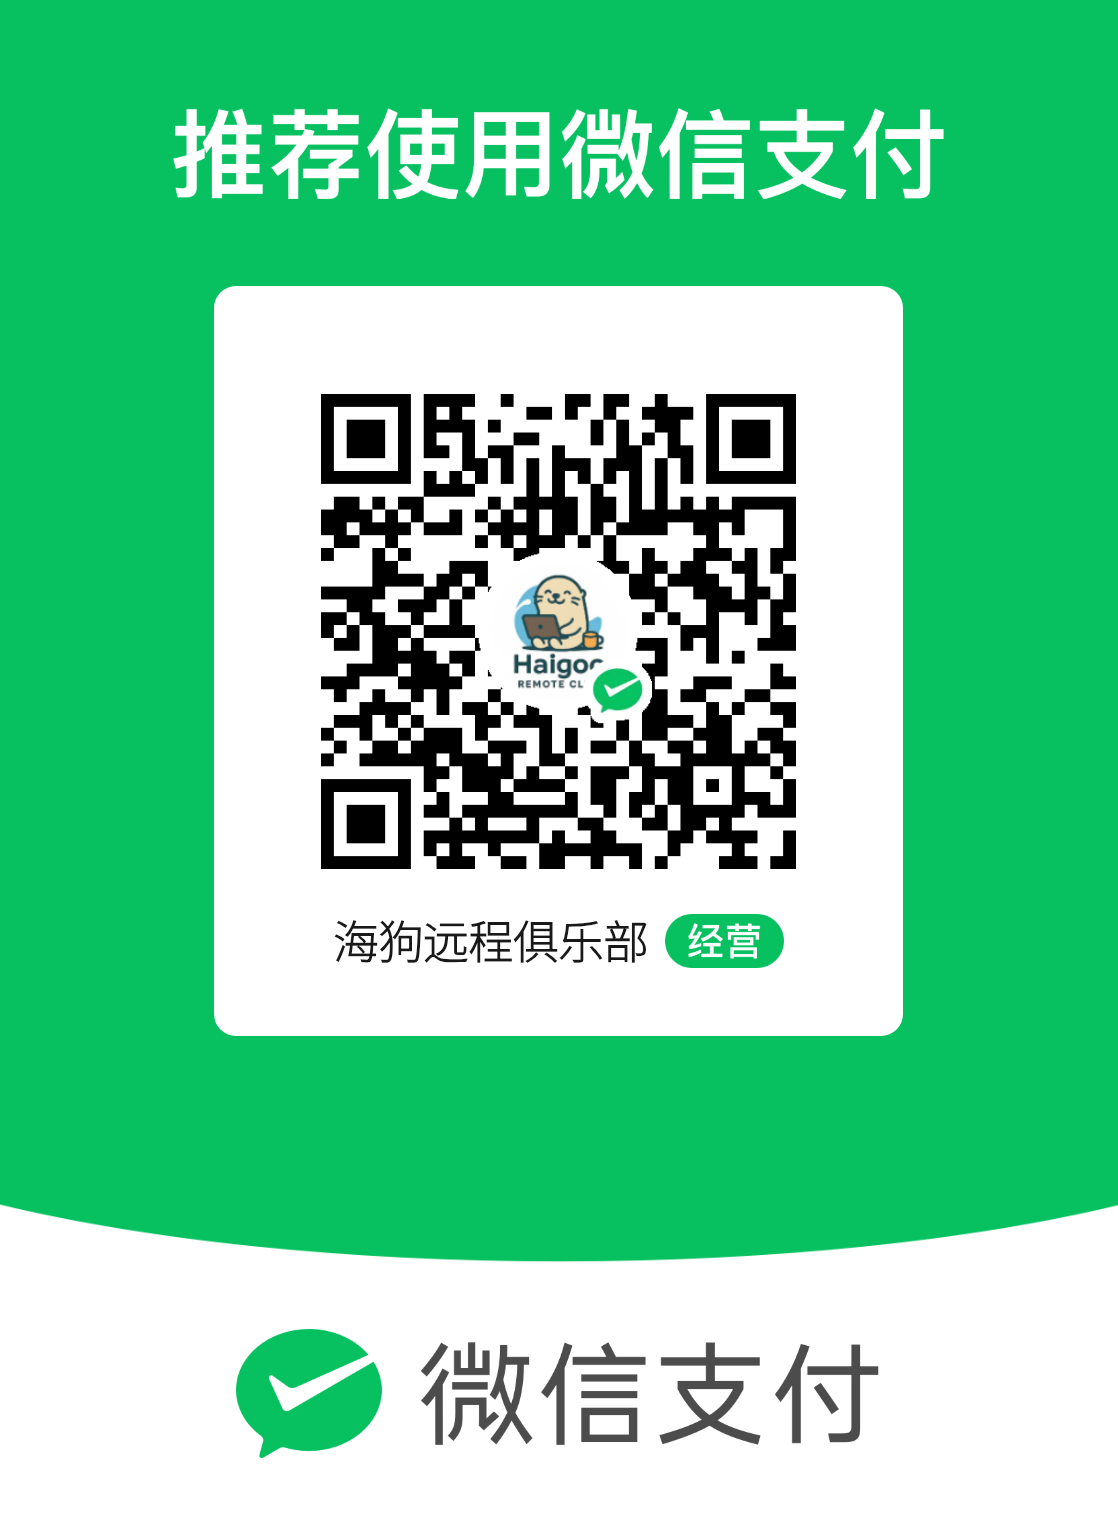
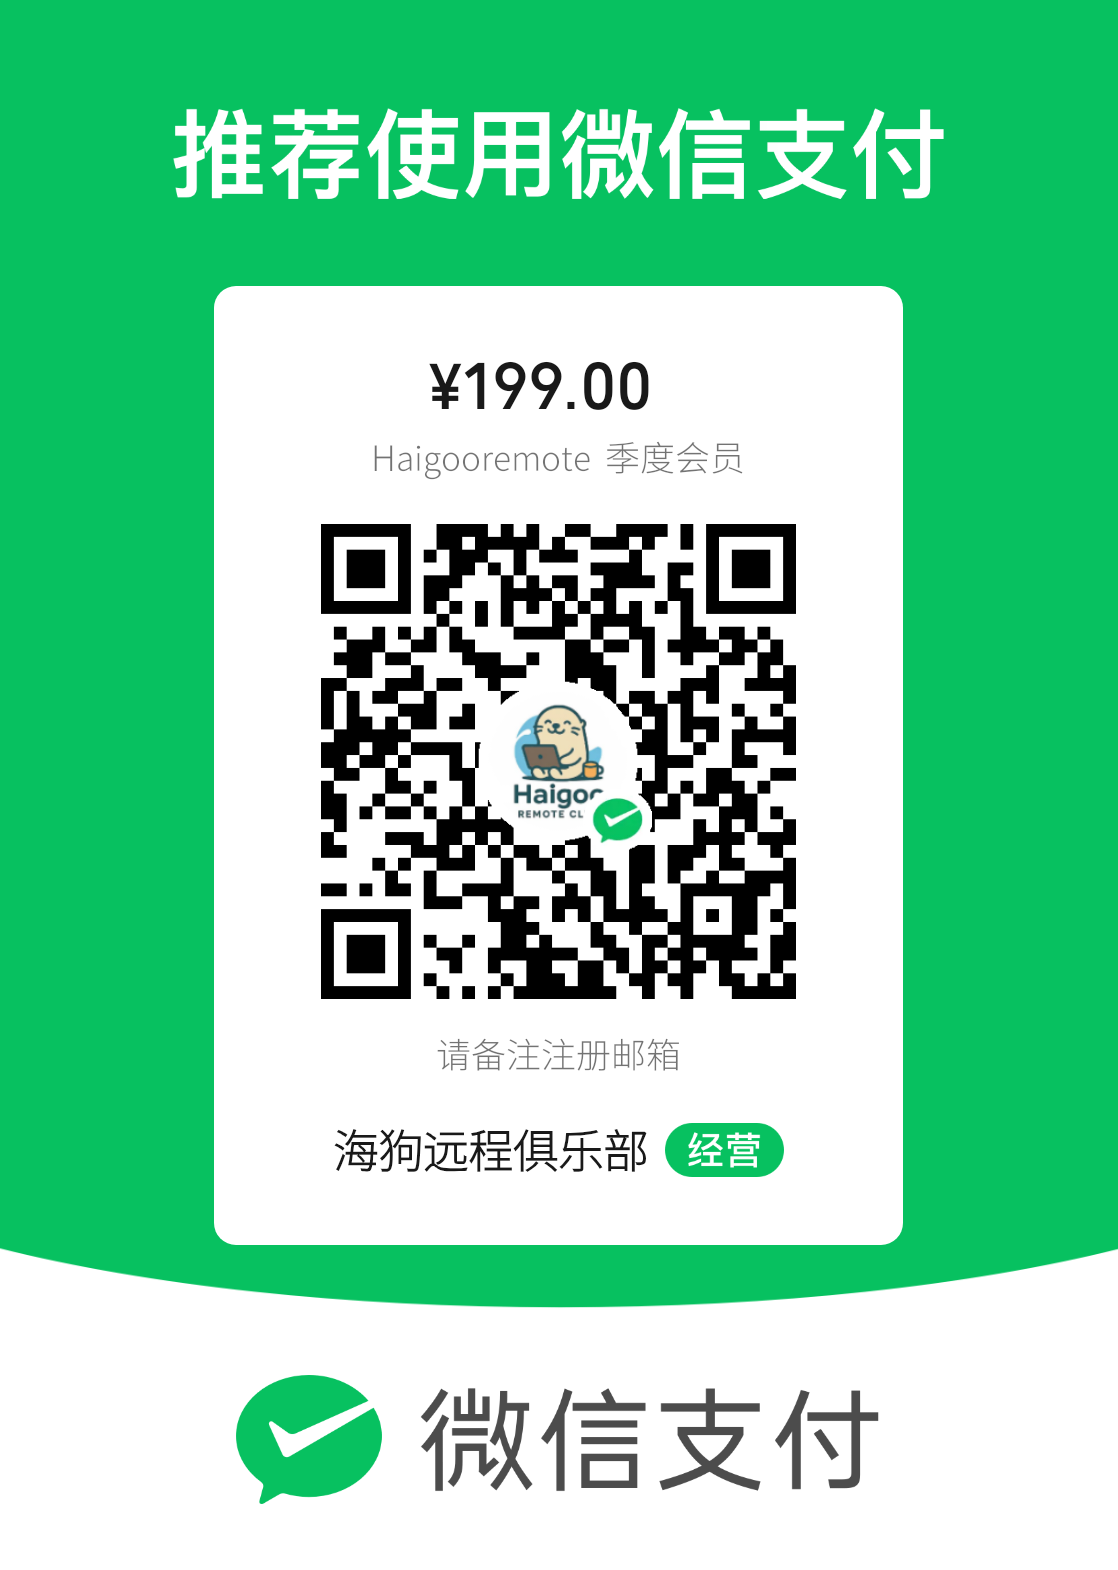
feat: Optimize payment modal UI and update payment QR codes

diff --git a/src/pages/MembershipPage.tsx b/src/pages/MembershipPage.tsx
@@ -125,7 +125,7 @@ const MembershipPage: React.FC = () => {
          return;
       }
       setSelectedPlan(plan);
-      setPaymentInfo(null); // Reset previous payment info
+      setPaymentMethod('alipay'); // Reset default
       setShowPaymentModal(true);
       trackingService.track('click_subscribe', {
           plan_id: plan.id,
@@ -134,26 +134,11 @@ const MembershipPage: React.FC = () => {
       });
    };
 
-   const handleCreatePayment = () => {
-      if (!selectedPlan) return;
-      if (!user?.email) {
-          alert('请先完善您的邮箱信息');
-          return;
-      }
-
-      // Manual Payment Flow - Display QR Code directly
-      const info: PaymentInfo = {
-          type: 'qrcode',
-          imageUrl: paymentMethod === 'alipay' ? '/alipay.jpg' : '/wechatpay.png',
-          instruction: `请使用${paymentMethod === 'alipay' ? '支付宝' : '微信'}扫码支付`
-      };
-      
-      setPaymentInfo(info);
-      trackingService.track('initiate_payment_manual', {
-          plan_id: selectedPlan.id,
-          payment_method: paymentMethod,
-          amount: selectedPlan.price
-      });
+   // Simplified flow: Payment info is derived directly from state
+   const currentPaymentInfo: PaymentInfo = {
+      type: 'qrcode',
+      imageUrl: paymentMethod === 'alipay' ? '/alipay.jpg' : '/wechatpay.png',
+      instruction: `请使用${paymentMethod === 'alipay' ? '支付宝' : '微信'}扫码支付`
    };
 
    const handlePaymentComplete = async () => {
@@ -173,7 +158,7 @@ const MembershipPage: React.FC = () => {
       }
 
       setShowPaymentModal(false);
-      alert('感谢您的支付！请务必确保您在支付备注中留下了邮箱。管理员将在24小时内为您开通权益。');
+      alert('感谢您的支付！权益将在24小时内开通。如有疑问请联系 hi@haigooremote.com');
       fetchStatus(); // Refresh status
       trackingService.track('complete_payment_client_claim', {
           plan_id: selectedPlan?.id
@@ -493,131 +478,128 @@ const MembershipPage: React.FC = () => {
             <div className="fixed inset-0 z-50 flex items-center justify-center p-4">
                <div className="absolute inset-0 bg-slate-900/60 backdrop-blur-sm transition-opacity" onClick={() => setShowPaymentModal(false)}></div>
 
-               <div className="relative bg-white rounded-2xl shadow-2xl w-full max-w-lg overflow-hidden animate-in fade-in zoom-in duration-300 scale-100">
-                  {/* Header */}
-                  <div className="px-6 py-5 border-b border-slate-100 flex justify-between items-center bg-slate-50/50">
-                     <h3 className="text-lg font-bold text-slate-900 flex items-center gap-2">
-                        <Zap className="w-5 h-5 text-indigo-500 fill-indigo-500" />
-                        确认订单
-                     </h3>
-                     <button
-                        onClick={() => setShowPaymentModal(false)}
-                        className="w-8 h-8 flex items-center justify-center rounded-full bg-slate-100 text-slate-400 hover:bg-slate-200 hover:text-slate-600 transition-colors"
-                     >
-                        <span className="text-xl leading-none">&times;</span>
-                     </button>
-                  </div>
+               <div className="relative bg-white rounded-2xl shadow-2xl w-full max-w-4xl overflow-hidden animate-in fade-in zoom-in duration-300 scale-100 flex flex-col md:flex-row">
+                  {/* Left Side: Order Details */}
+                  <div className="w-full md:w-2/5 bg-slate-50 border-r border-slate-100 p-6 md:p-8 flex flex-col">
+                      <div className="flex justify-between items-center mb-6 md:hidden">
+                        <h3 className="text-lg font-bold text-slate-900 flex items-center gap-2">
+                            <Zap className="w-5 h-5 text-indigo-500 fill-indigo-500" />
+                            确认订单
+                        </h3>
+                        <button
+                            onClick={() => setShowPaymentModal(false)}
+                            className="w-8 h-8 flex items-center justify-center rounded-full bg-slate-100 text-slate-400 hover:bg-slate-200 hover:text-slate-600 transition-colors"
+                        >
+                            <span className="text-xl leading-none">&times;</span>
+                        </button>
+                      </div>
 
-                  <div className="p-6 md:p-8">
-                     {/* Order Summary Card */}
-                     <div className="flex justify-between items-center mb-8 bg-gradient-to-br from-indigo-50 to-slate-50 p-5 rounded-2xl border border-indigo-100/50">
-                        <div>
-                           <p className="text-xs font-semibold text-indigo-500 uppercase tracking-wide mb-1">订阅方案</p>
-                           <p className="font-bold text-slate-900 text-lg">{selectedPlan.name}</p>
-                        </div>
-                        <div className="text-right">
-                           <p className="text-xs text-slate-500 mb-1">支付金额</p>
-                           <p className="text-3xl font-bold text-indigo-600">¥{selectedPlan.price}</p>
+                     <div className="mb-8">
+                        <p className="text-xs font-semibold text-indigo-500 uppercase tracking-wide mb-1">订阅方案</p>
+                        <h4 className="font-bold text-slate-900 text-2xl mb-2">{selectedPlan.name}</h4>
+                        <div className="flex items-baseline gap-1">
+                            <span className="text-3xl font-bold text-slate-900">¥{selectedPlan.price}</span>
+                            <span className="text-sm text-slate-500">/年</span>
                         </div>
                      </div>
 
-                     {!paymentInfo ? (
-                        <div className="space-y-6">
-                           <div>
-                              <p className="font-medium text-slate-900 mb-3 text-sm">选择支付方式</p>
-                              <div className="grid grid-cols-2 gap-4">
-                                 <button
-                                    onClick={() => setPaymentMethod('alipay')}
-                                    className={`relative p-4 rounded-xl border-2 transition-all flex flex-col items-center gap-2 group ${paymentMethod === 'alipay'
-                                       ? 'border-blue-500 bg-blue-50/30'
-                                       : 'border-slate-100 hover:border-blue-100 hover:bg-blue-50/10'
-                                       }`}
-                                 >
-                                    {paymentMethod === 'alipay' && (
-                                       <div className="absolute top-2 right-2 text-blue-500">
-                                          <Check className="w-4 h-4" />
-                                       </div>
-                                    )}
-                                    <span className="w-10 h-10 rounded-full bg-blue-100 text-blue-600 flex items-center justify-center mb-1 group-hover:scale-110 transition-transform">
-                                       <Zap className="w-5 h-5" />
-                                    </span>
-                                    <span className="text-slate-900 font-bold text-sm">支付宝</span>
-                                 </button>
+                     <div className="flex-1">
+                        <p className="font-medium text-slate-900 mb-4 text-sm">选择支付方式</p>
+                        <div className="space-y-3">
+                            <button
+                                onClick={() => setPaymentMethod('alipay')}
+                                className={`w-full p-4 rounded-xl border-2 transition-all flex items-center gap-3 ${paymentMethod === 'alipay'
+                                    ? 'border-blue-500 bg-white shadow-md'
+                                    : 'border-slate-200 bg-white hover:border-blue-200'
+                                    }`}
+                            >
+                                <span className="w-8 h-8 rounded-full bg-blue-100 text-blue-600 flex items-center justify-center flex-shrink-0">
+                                    <Zap className="w-4 h-4" />
+                                </span>
+                                <span className="text-slate-900 font-bold text-sm flex-1 text-left">支付宝</span>
+                                {paymentMethod === 'alipay' && <CheckCircle2 className="w-5 h-5 text-blue-500" />}
+                            </button>
 
-                                 <button
-                                    onClick={() => setPaymentMethod('wechat')}
-                                    className={`relative p-4 rounded-xl border-2 transition-all flex flex-col items-center gap-2 group ${paymentMethod === 'wechat'
-                                       ? 'border-green-500 bg-green-50/30'
-                                       : 'border-slate-100 hover:border-green-100 hover:bg-green-50/10'
-                                       }`}
-                                 >
-                                    {paymentMethod === 'wechat' && (
-                                       <div className="absolute top-2 right-2 text-green-500">
-                                          <Check className="w-4 h-4" />
-                                       </div>
-                                    )}
-                                    <span className="w-10 h-10 rounded-full bg-green-100 text-green-600 flex items-center justify-center mb-1 group-hover:scale-110 transition-transform">
-                                       <ShieldCheck className="w-5 h-5" />
-                                    </span>
-                                    <span className="text-slate-900 font-bold text-sm">微信支付</span>
-                                 </button>
-                              </div>
-                           </div>
-
-                           <button
-                              onClick={handleCreatePayment}
-                              className="w-full py-4 bg-slate-900 hover:bg-indigo-600 text-white font-bold rounded-xl shadow-lg shadow-slate-200 hover:shadow-indigo-200 transition-all transform active:scale-[0.98] flex items-center justify-center gap-2"
-                           >
-                              下一步 <ArrowRight className="w-5 h-5" />
-                           </button>
+                            <button
+                                onClick={() => setPaymentMethod('wechat')}
+                                className={`w-full p-4 rounded-xl border-2 transition-all flex items-center gap-3 ${paymentMethod === 'wechat'
+                                    ? 'border-green-500 bg-white shadow-md'
+                                    : 'border-slate-200 bg-white hover:border-green-200'
+                                    }`}
+                            >
+                                <span className="w-8 h-8 rounded-full bg-green-100 text-green-600 flex items-center justify-center flex-shrink-0">
+                                    <ShieldCheck className="w-4 h-4" />
+                                </span>
+                                <span className="text-slate-900 font-bold text-sm flex-1 text-left">微信支付</span>
+                                {paymentMethod === 'wechat' && <CheckCircle2 className="w-5 h-5 text-green-500" />}
+                            </button>
                         </div>
-                     ) : (
-                        <div className="text-center">
-                           <div className="mb-6 p-6 bg-slate-50 rounded-2xl border border-slate-100">
-                              {paymentInfo.imageUrl && (
-                                 <div className="bg-white p-2 rounded-xl shadow-sm border border-slate-100 inline-block mb-4">
-                                    <img src={paymentInfo.imageUrl} alt="Payment QR" className="w-48 h-auto object-contain rounded-lg" />
-                                 </div>
-                              )}
+                     </div>
+                     
+                     <div className="mt-8 pt-6 border-t border-slate-200 hidden md:block">
+                        <p className="text-xs text-slate-400 leading-relaxed">
+                            如有任何支付问题，请联系客服邮箱：<br/>
+                            <a href="mailto:hi@haigooremote.com" className="text-indigo-600 hover:underline">hi@haigooremote.com</a>
+                        </p>
+                     </div>
+                  </div>
 
-                              <p className="text-slate-800 font-bold mb-2 text-lg">{paymentInfo.instruction}</p>
-                              
-                              <div className="bg-amber-50 border border-amber-100 rounded-lg p-3 text-sm text-amber-800 mb-2 text-left">
-                                 <p className="font-bold mb-1">⚠ 重要提示：</p>
-                                 <p>付款时请务必在【添加备注】处填入您的注册邮箱：</p>
-                                 <div className="mt-2 flex items-center gap-2 bg-white p-2 rounded border border-amber-200">
-                                    <code className="flex-1 font-mono text-slate-700 break-all">{user?.email || '您的邮箱'}</code>
-                                    <button 
-                                        onClick={() => {
-                                            navigator.clipboard.writeText(user?.email || '');
-                                            alert('邮箱已复制');
-                                        }}
-                                        className="text-amber-600 hover:text-amber-700"
-                                        title="复制邮箱"
-                                    >
-                                        <Copy className="w-4 h-4" />
-                                    </button>
-                                 </div>
-                              </div>
-                           </div>
+                  {/* Right Side: QR Code */}
+                  <div className="w-full md:w-3/5 bg-white p-6 md:p-8 flex flex-col items-center justify-center text-center relative">
+                      <button
+                        onClick={() => setShowPaymentModal(false)}
+                        className="absolute top-4 right-4 w-8 h-8 hidden md:flex items-center justify-center rounded-full bg-slate-50 text-slate-400 hover:bg-slate-100 hover:text-slate-600 transition-colors"
+                    >
+                        <span className="text-xl leading-none">&times;</span>
+                    </button>
 
-                           <div className="space-y-3">
-                              <button
-                                 onClick={handlePaymentComplete}
-                                 className="w-full py-4 bg-green-600 hover:bg-green-500 text-white font-bold rounded-xl shadow-lg shadow-green-200 transition-all flex items-center justify-center gap-2"
-                              >
-                                 <Check className="w-5 h-5" />
-                                 我已完成支付
-                              </button>
-                              <button
-                                 onClick={() => setPaymentInfo(null)}
-                                 className="text-slate-400 text-sm hover:text-slate-600 py-2 transition-colors"
-                              >
-                                 返回重新选择
-                              </button>
-                           </div>
+                     <div className="mb-6">
+                        <div className="bg-white p-3 rounded-2xl shadow-lg border border-slate-100 inline-block mb-4 transform transition-transform hover:scale-105 duration-300">
+                           <img 
+                                src={currentPaymentInfo.imageUrl} 
+                                alt="Payment QR" 
+                                className="w-48 h-48 md:w-56 md:h-56 object-contain rounded-lg" 
+                           />
                         </div>
-                     )}
+                        <p className="text-slate-800 font-bold text-lg mb-1">{currentPaymentInfo.instruction}</p>
+                        <p className="text-slate-400 text-sm">请使用手机扫码完成支付</p>
+                     </div>
+
+                     <div className="w-full max-w-sm">
+                        <div className="bg-amber-50 border border-amber-100 rounded-xl p-4 text-sm text-amber-800 mb-6 text-left">
+                            <p className="font-bold mb-2 flex items-center gap-1.5">
+                                <span className="w-1.5 h-1.5 rounded-full bg-amber-500"></span>
+                                付款备注说明
+                            </p>
+                            <p className="mb-2 text-amber-700/80">付款时请务必在【添加备注】处填入您的注册邮箱，以便系统自动核销：</p>
+                            <div className="flex items-center gap-2 bg-white p-2.5 rounded-lg border border-amber-200 shadow-sm group cursor-pointer hover:border-amber-300 transition-colors"
+                                onClick={() => {
+                                    navigator.clipboard.writeText(user?.email || '');
+                                    alert('邮箱已复制');
+                                }}
+                            >
+                                <code className="flex-1 font-mono text-slate-700 break-all font-medium select-all">{user?.email || '您的邮箱'}</code>
+                                <Copy className="w-4 h-4 text-amber-400 group-hover:text-amber-600" />
+                            </div>
+                        </div>
+
+                        <button
+                            onClick={handlePaymentComplete}
+                            className="w-full py-4 bg-green-600 hover:bg-green-500 text-white font-bold rounded-xl shadow-lg shadow-green-200 transition-all flex items-center justify-center gap-2 active:scale-[0.98]"
+                        >
+                            <CheckCircle2 className="w-5 h-5" />
+                            我已完成支付
+                        </button>
+                        <p className="text-xs text-slate-400 mt-3">
+                            * 支付后权益将在 24 小时内开通
+                        </p>
+                        
+                         <div className="mt-4 pt-4 border-t border-slate-100 md:hidden text-center">
+                            <p className="text-xs text-slate-400">
+                                客服邮箱：<a href="mailto:hi@haigooremote.com" className="text-indigo-600">hi@haigooremote.com</a>
+                            </p>
+                         </div>
+                     </div>
                   </div>
                </div>
             </div>
